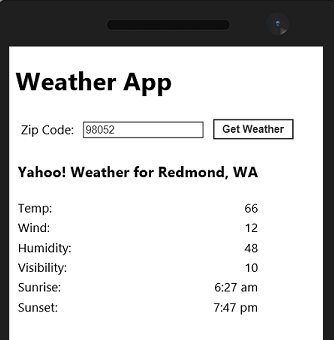
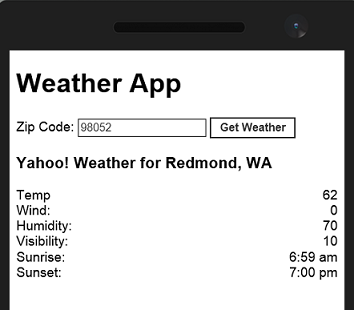
Updating getting started with Ryan's feedback

diff --git a/articles/getting-started/get-started-first-mobile-app.md b/articles/getting-started/get-started-first-mobile-app.md
@@ -162,52 +162,72 @@ First, we'll add the [JQuery](https://jquery.com/) NuGet package to your project
 
 **index.html** is the first page that appears when users run your app. So we'll add our HTML to that file. Of course, this the default setting and you can change that at any time in the [configuration designer](#settings).
 
+1. Open the **index.html** file and add this style to the ```<head>``` of the page.
+```css
+  <style type="text/css">
+      body {
+          font: 1em Sans-Serif;
+      }
+
+      .flex {
+          display: -webkit-box;
+          display: flex;
+      }
+
+          .flex > div:nth-child(2) {
+              -webkit-flex-grow: 1;
+              flex-grow: 1;
+              text-align: right;
+          }
+  </style>
+```
 1. Open the **index.html** file and remove this line.
 
-	```html
-	  <p>Hello, your application is ready!</p>
-	```
+  ```html
+  	<p>Hello, your application is ready!</p>
+  ```
+2. Add this HTML to the ```<body>``` of the page to give users a way to search for the weather see the results.
 
-2. Add this HTML to the ```<body>``` of the page to give users a way to search for the weather see the results in a table.
-
 	```html
-		<h1 id="app-title">Weather App</h1>
-		 <table cellpadding="5" class="appfont">
-		<tr>
-		    <td>Zip Code: </td>
-		    <td><input id="input-box" /></td>
-		    <td><button id="get-weather">Get Weather</button></td>
-		</tr>
-		</table>
-		<table>
-		<tr>
-		    <td colspan="2"><h3 id="description">Get the Weather</h3></td>
-		</tr>
-		<tr>
-		    <td>Temp:</td>
-		    <td align="right"><div id="temp"></div></td>
-		</tr>
-		<tr>
-		    <td>Wind:</td>
-		    <td align="right"><div id="wind"></div></td>
-		</tr>
-		<tr>
-		    <td>Humidity:</td>
-		    <td align="right"><div id="humidity"></div></td>
-		</tr>
-		<tr>
-		    <td>Visibility:</td>
-		    <td align="right"><div id="visibility"></div></td>
-		</tr>
-		<tr>
-		    <td>Sunrise:</td>
-		    <td align="right"><div id="sunrise"></div></td>
-		</tr>
-		<tr>
-		    <td>Sunset:</td>
-		    <td align="right"><div id="sunset"></div></td>
-		</tr>
-		</table>
+    <h1 id="app-title">Weather App</h1>
+
+    <div>
+        <label for="zip-code">Zip Code:</label>
+        <input type="text" id="input-box" />
+        <button id="get-weather">Get Weather</button>
+    </div>
+
+    <h3 id="description">Get the Weather</h3>
+
+    <div class="flex">
+        <div>Temp</div>
+        <div id="temp"></div>
+    </div>
+
+    <div class="flex">
+        <div>Wind:</div>
+        <div id="wind"></div>
+    </div>
+
+    <div class="flex">
+        <div>Humidity:</div>
+        <div id="humidity"></div>
+  </div>
+
+  <div class="flex">
+      <div>Visibility:</div>
+      <div id="visibility"></div>
+    </div>
+
+    <div class="flex">
+        <div>Sunrise:</div>
+        <div id="sunrise"></div>
+    </div>
+
+    <div class="flex">
+        <div>Sunset:</div>
+        <div id="sunset"></div>
+    </div>
 	```
 
 ### Handle a button event
@@ -326,21 +346,17 @@ Now we'll add the *getWeather* function that we're using to handle button's ``cl
 
 Let's run the app, but this time let's use an emulator.
 
-1. In the platforms list, choose **Windows Phone (Universal)**.
+2. In the list of Android emulators, choose the one of the VS Emulators to run your app.
 
-    ![Windows Emulators](media/get-started-first-mobile-app/windows-target.png)
+    ![Android Emulator](media/get-started-first-mobile-app/android-emulator.png)
 
-2. In the list of Windows emulators, choose the first one to run your app.
-
-    ![Windows Emulator](media/get-started-first-mobile-app/windows-emulator.png)
-
-3. In the Windows emulator, type a valid United States zip code into the edit box (for example: 98052), and then press the **Get Weather** button.
+3. In the Android emulator, type a valid United States zip code into the edit box (for example: 98052), and then press the **Get Weather** button.
 
     Weather data for that region appears in the controls.
 
-    ![Weather App](media/get-started-first-mobile-app/weather-app.png)
+    ![Weather App](media/get-started-first-mobile-app/weather-app-overview.png)
 
-    What's great here is that this app is completely cross platform. If you have a little extra time, run this app in an Android emulator. You can use an iOS emulator, but that's a little more advanced. At the end of this article, I'll point you to some guidance for doing that.
+    What's great here is that this app is completely cross platform. If you have a little extra time, run this app in a Windows emulator. You can use an iOS emulator, but that's a little more advanced. At the end of this article, I'll point you to some guidance for doing that.
 
 ## <a id="find-fix"></a>Find and fix problems
 
@@ -348,7 +364,15 @@ A big benefit of Visual Studio is its powerful debugger. If you're already famil
 
 ### Breakpoints and conditional breakpoints
 
-1. Run your app. This time, try an Android emulator.
+Run your app. This time, try a Windows emulator.
+
+1. In the platforms list, choose **Windows Phone (Universal)**.
+
+    ![Windows Emulators](media/get-started-first-mobile-app/windows-target.png)
+
+2. In the list of Windows emulators, choose the first one to run your app.
+
+    ![Windows Emulator](media/get-started-first-mobile-app/windows-emulator.png)
 
 2. After your app starts, open the **weather.js** file, and set a *breakpoint* by clicking the margin next to this line:
 
